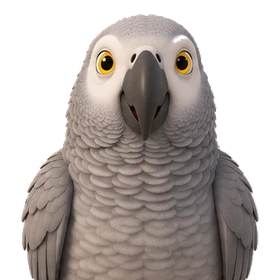
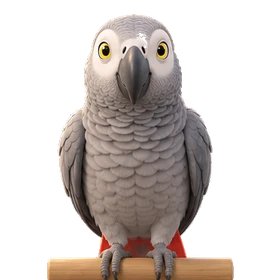
Wire approved art: Kasuku v2, the painted chakla, clinic final rooms and nana/ma/ali sit
- Kasuku v2 (dump 2, approved) replaces v1's badge: cut_characters.py's
  kasuku SPEC now points at the new sheet (a different layout, so the
  badge crops its front-on perched pose instead of v1's headshot row).
  Old badge kept at assets/cook/characters/old/kasuku-badge-v1.webp.
- Cook: the chakla (batch 2 redraw, passed QA) is wired via
  data.art.sprites.art.chakla, used by the roll and Maani-line mechanics
  (js/cook/art.js's existing painted-override path; no code change).
- Clinic: the three final room backgrounds and nana/ma/ali's "sit" pose
  (manifest's own `final.replaces`) now show instead of the rough
  placeholders, via data/clinic/rough-art.json's top `rooms` and
  `patients.*.neutral`.

Left for a follow-up (see build/reports/art-fold-in.md): the rolling pin,
onion whole/peeled and the thali have no current code consumer; old-man/
old-woman waist crops need a colour-keyed lookup; the new patient sheets
(girl/boy/old-man/old-woman/dad+baby) are approved but not yet cut; the
guest and feelings sheets have no data slot to wire into without a new
feature.

Claude-Session: https://claude.ai/code/session_01Qx665Gx515njbvzEeyEhvj

diff --git a/build/cut_characters.py b/build/cut_characters.py
@@ -102,7 +102,11 @@ SPEC = {
         "badge": dict(sheet="char-isa-expressions-v1.png", box=(0, 0, 384, 341), eyes=None, crown=None, chin=None),
     },
     "kasuku": {
-        "badge": dict(sheet="char-kasuku-poses-v1.png", box=(780, 560, 1130, 950), eyes=None, crown=None, chin=None,
+        # v2 (ChatGPT batch 3, dump 2): a fresh render, approved to replace v1. Its sheet is laid out
+        # differently (perched full-body poses on both rows, no close-up row), so the badge crops the
+        # front-on perched pose (top row, second column) instead of v1's close-up headshot row.
+        "badge": dict(sheet="../chatgpt-batch3/char-kasuku-v2.png", box=(420, 10, 780, 440), eyes=None, crown=None,
+                      chin=None,
                       # grey bird on a pale grey backdrop: the backdrop is very flat, so cut close to it
                       fit_tol=5.0, matte=dict(t0=4.0, t1=13.0)),
     },
